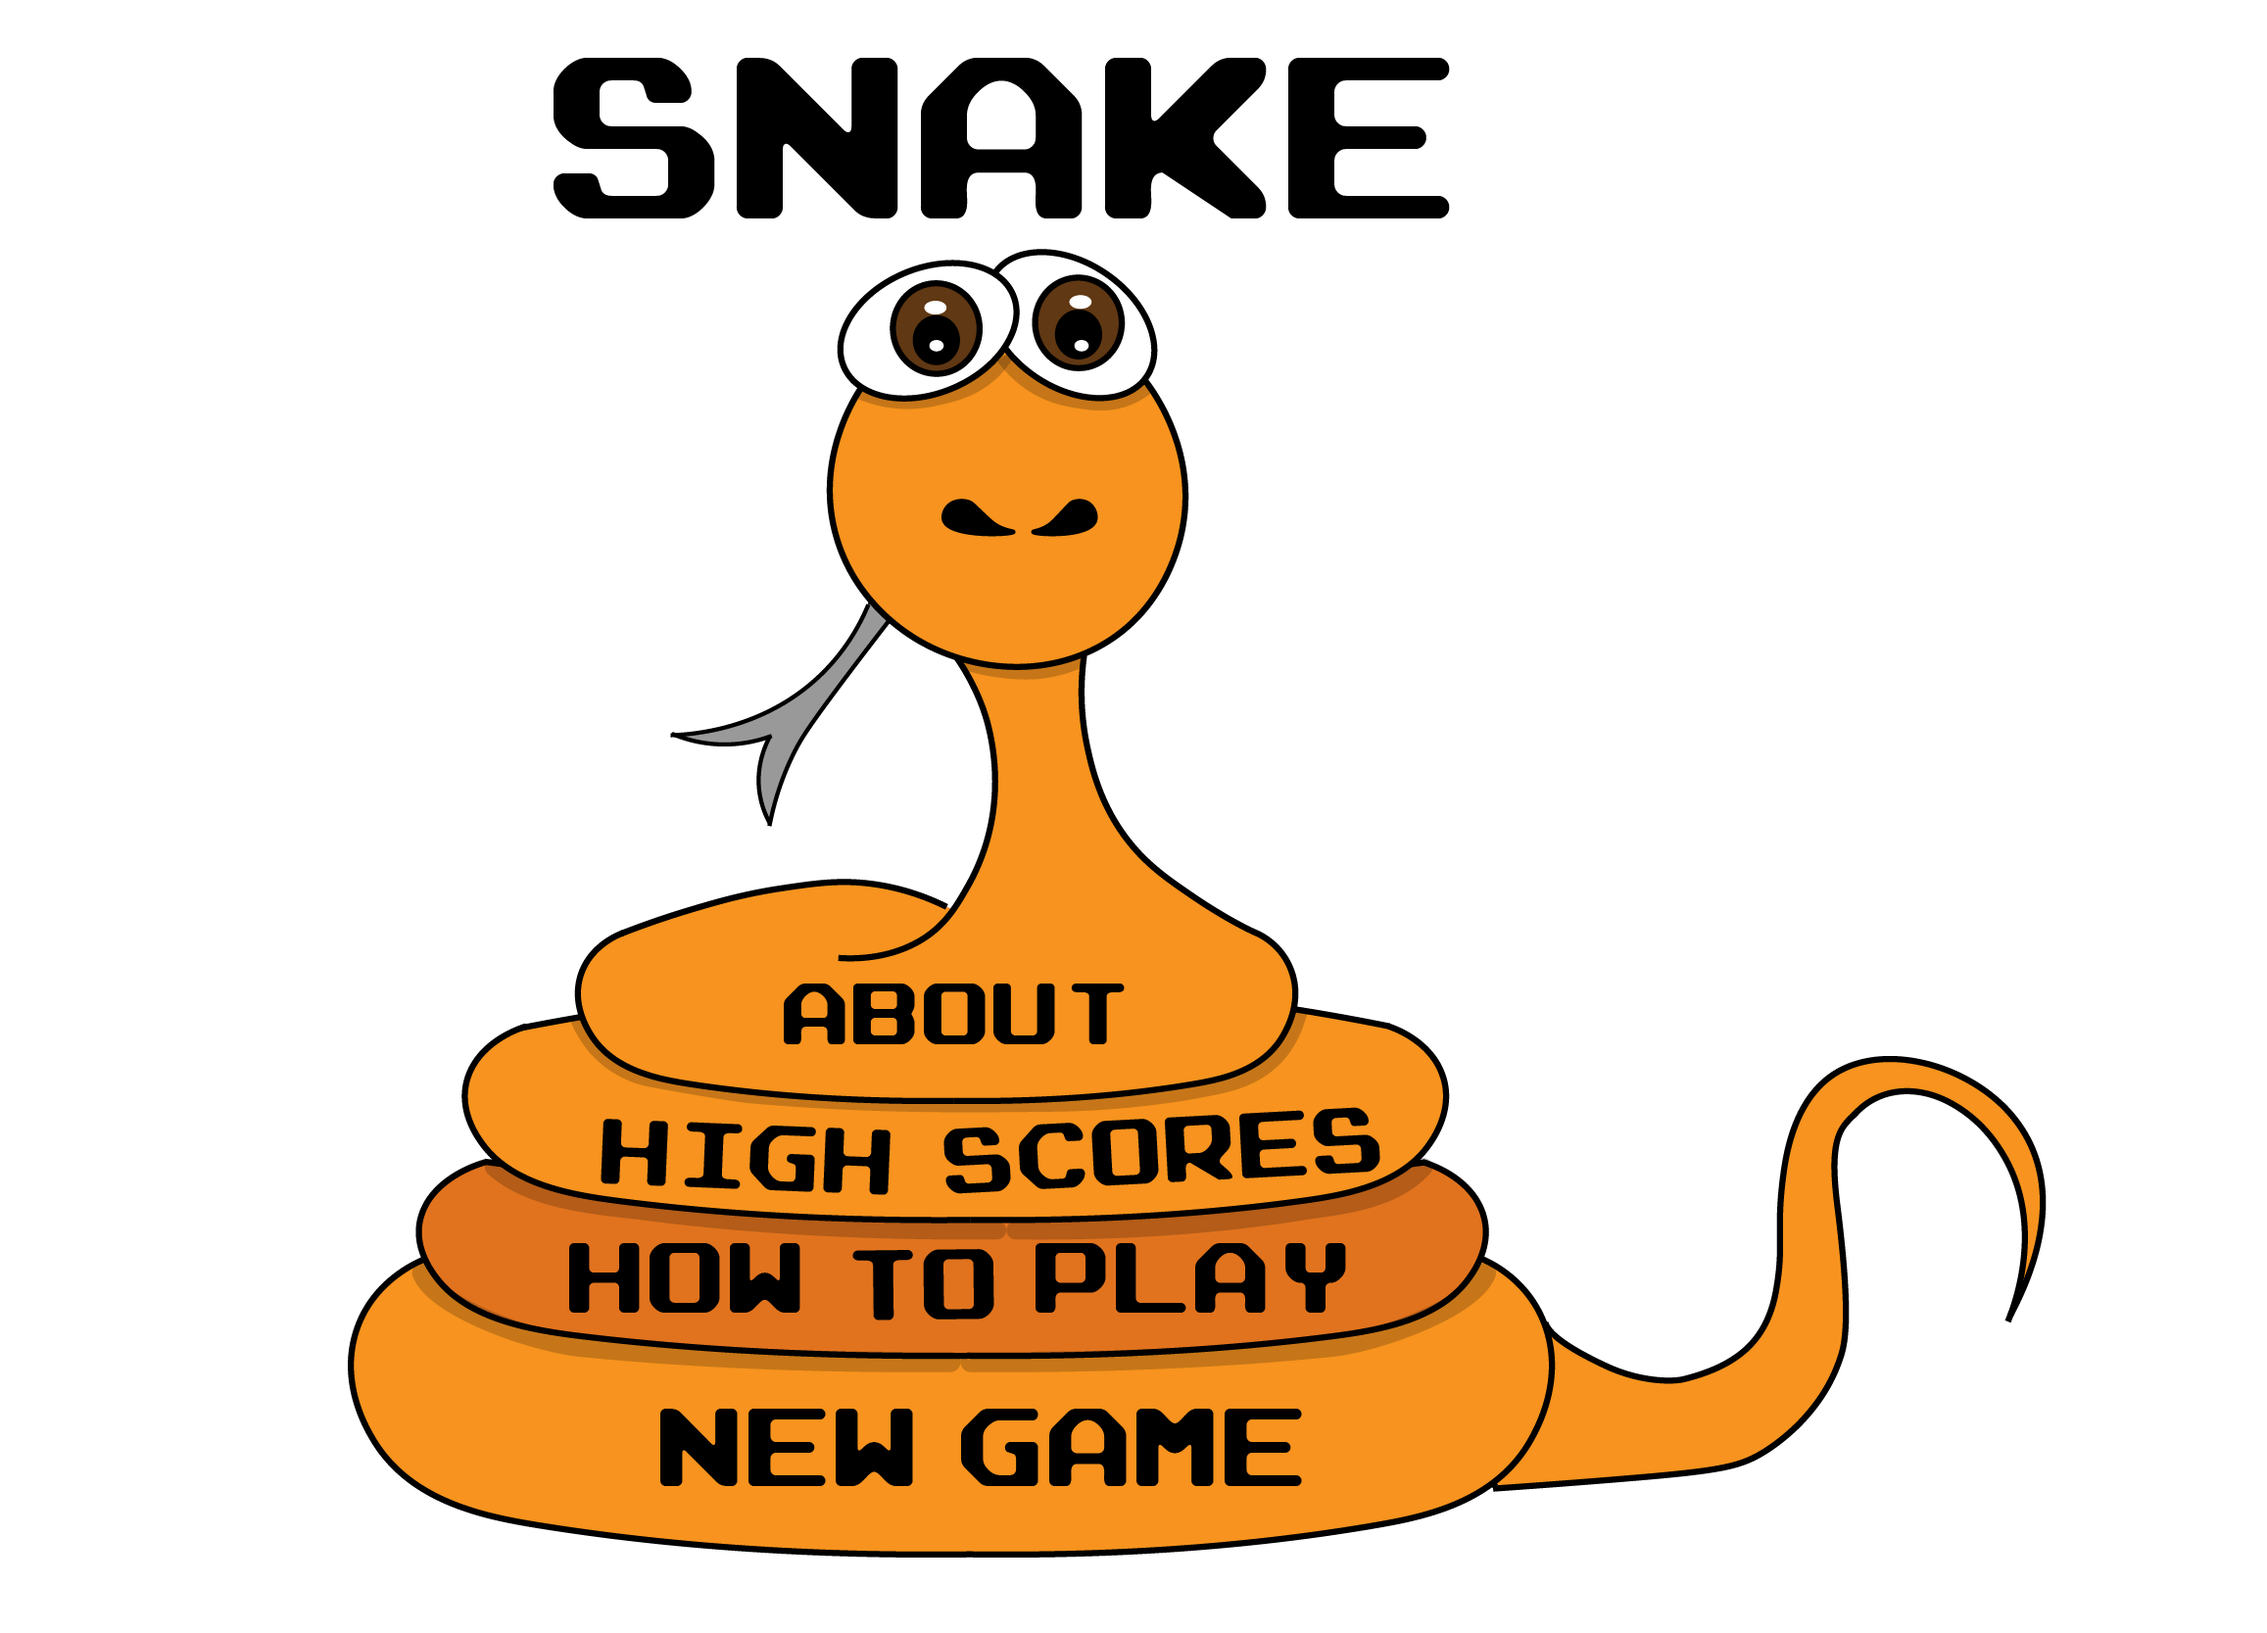
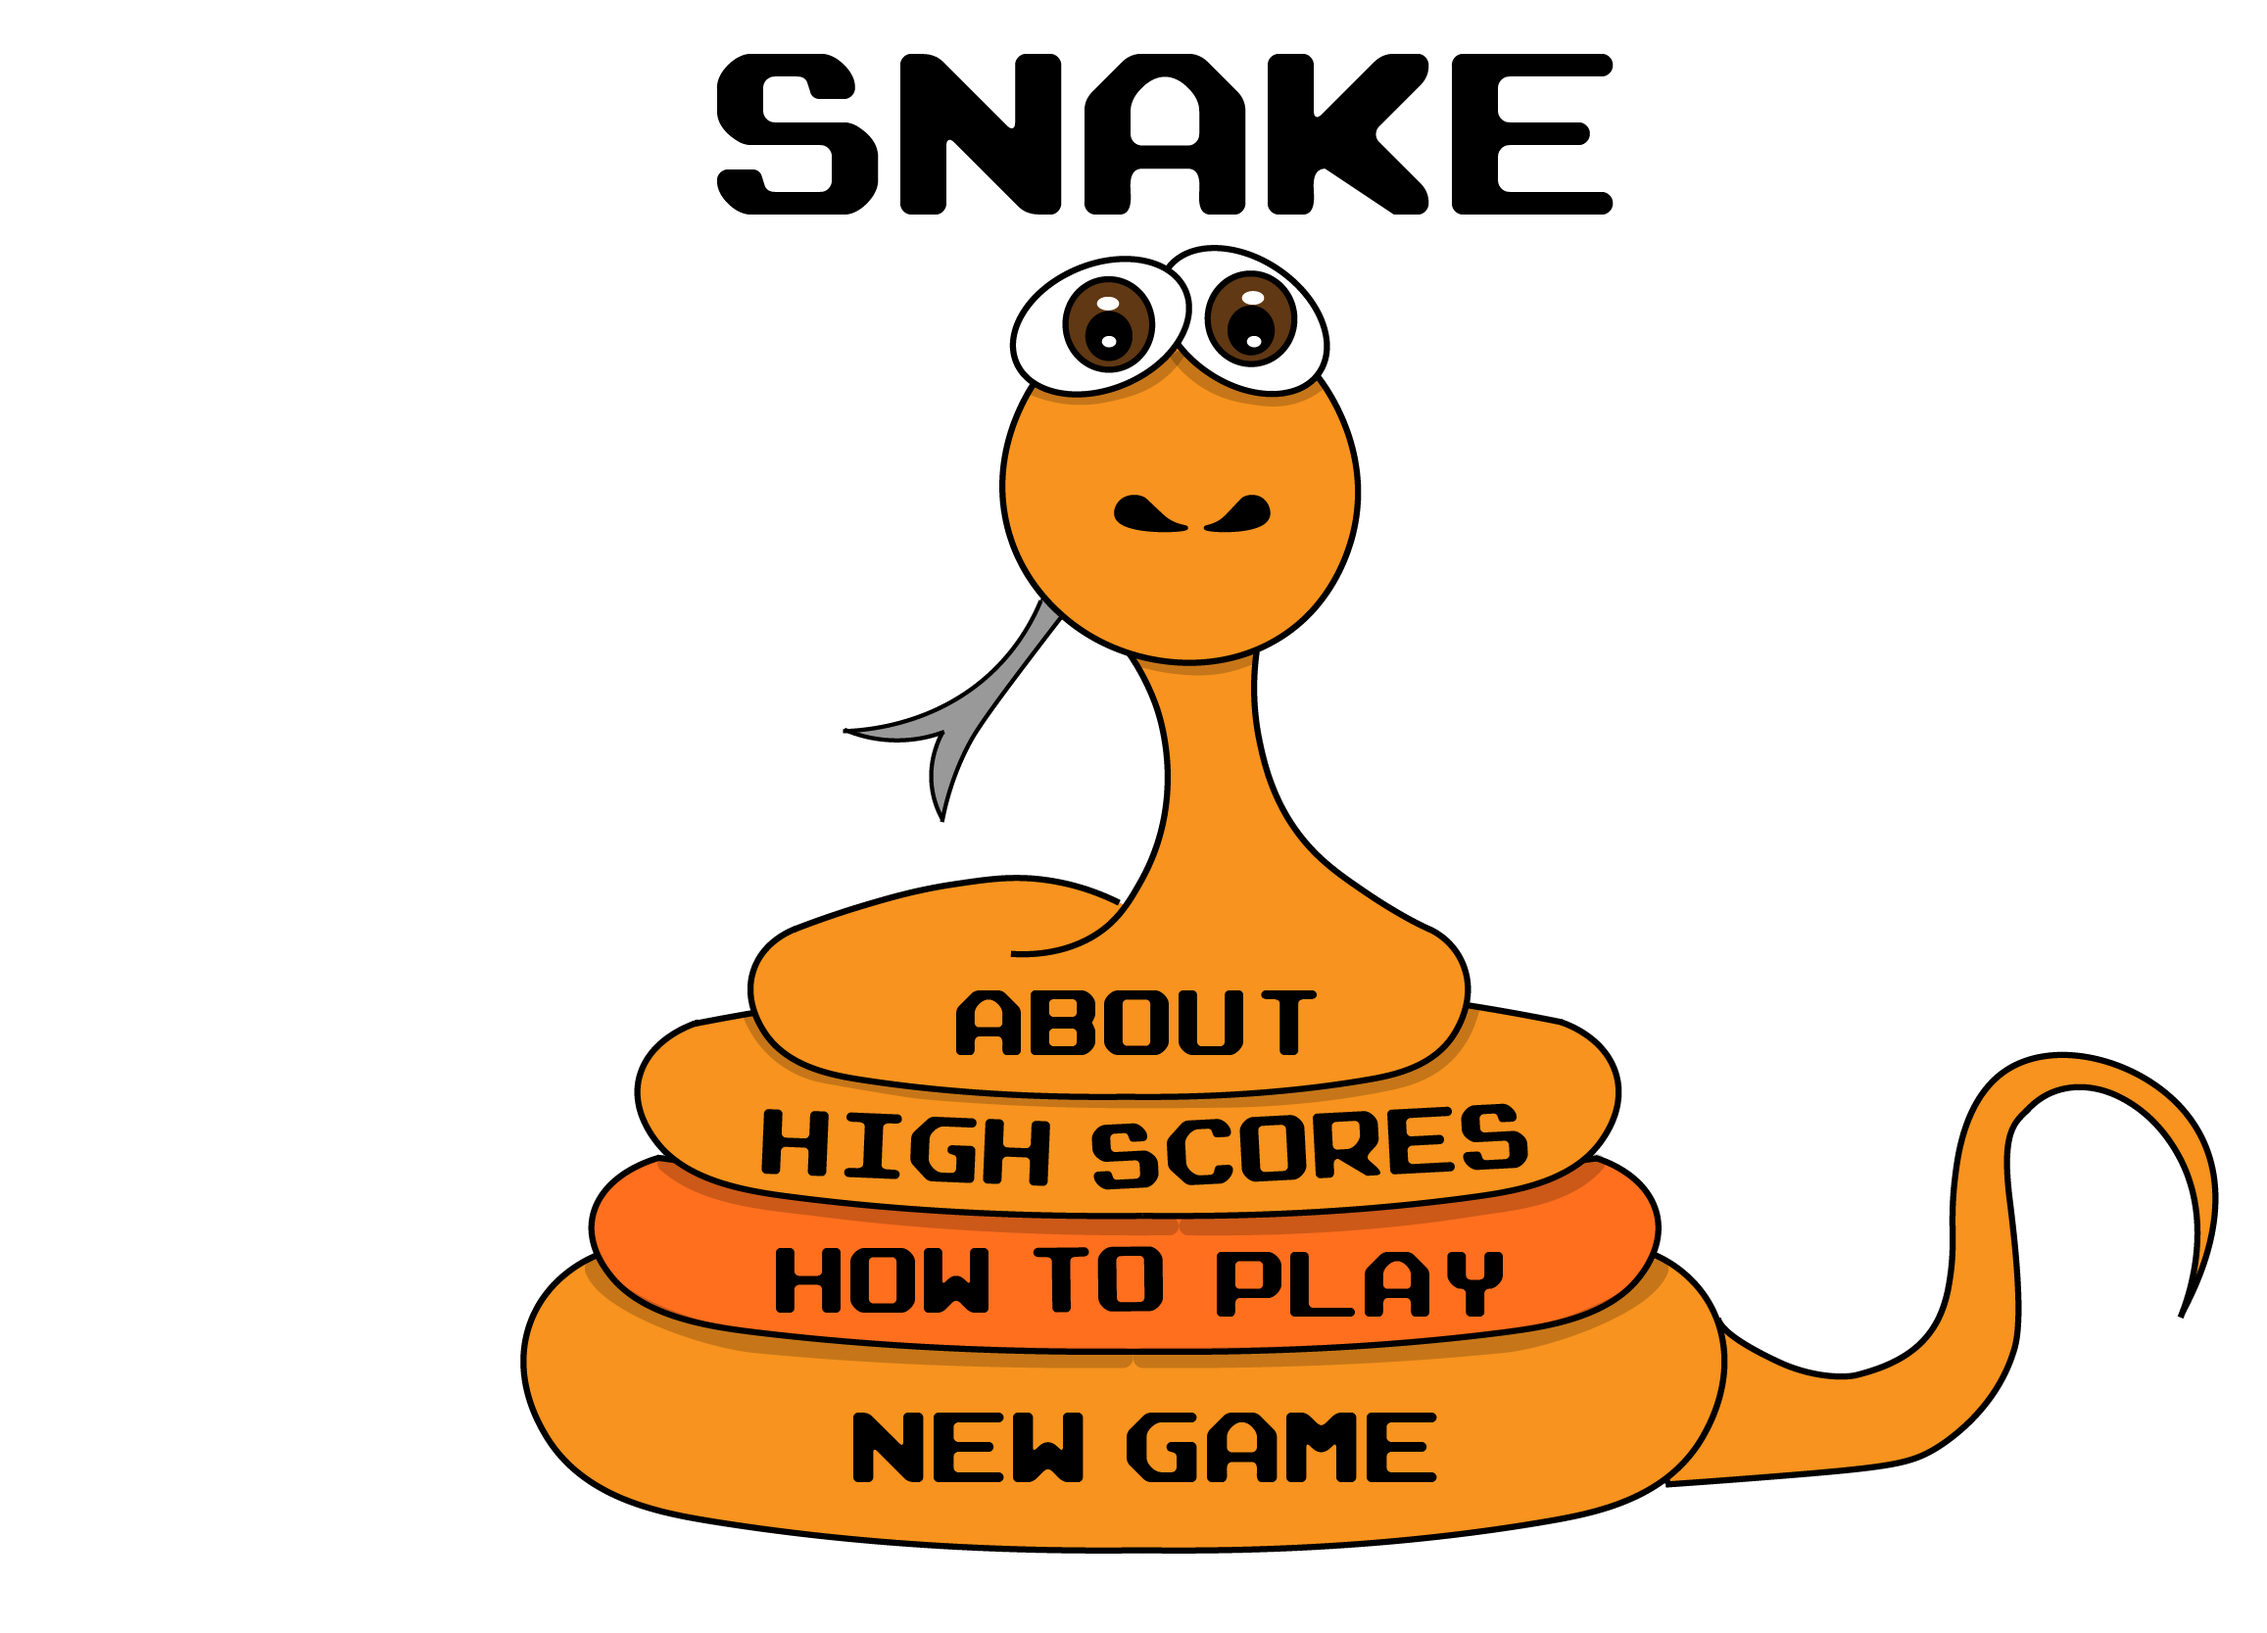
Modified Home Screen

Changed region(s): [[0.1556, 0.0312, 0.9957, 0.967]]

diff --git a/SnakeHome.html b/SnakeHome.html
@@ -1,7 +1,7 @@
 <!--
     Author: Daniel Cushing
     Version: 1.0 
-    Date: 1/29/2015
+    Date: 4/17/2015
     Info: Snake Home Page
 -->
 
@@ -11,6 +11,8 @@
         <title> Snake </title>
         <link rel="stylesheet" type="text/css" href="CSS/SnakeHomeStyle.css">
         <link href='http://fonts.googleapis.com/css?family=Titillium+Web:600' rel='stylesheet' type='text/css'>
+        <link rel="stylesheet" href="http://maxcdn.bootstrapcdn.com/bootstrap/3.3.4/css/bootstrap.min.css">
+        <script src="http://maxcdn.bootstrapcdn.com/bootstrap/3.3.4/js/bootstrap.min.js"></script>
             
 <!--    Link Jquery-->
 <!--    
@@ -38,9 +40,32 @@
         
     function newGameClicked()
     {
-        alert("Go to game view")
-        // Goto new page
-        // location.href = "page_location";
+        location.href = "SnakeGame.html";
+    }
+
+    function imgHighlight(element)
+    {
+        if(element.id == "aboutButton")
+        {
+            document.getElementById("homeScreenImage").src = "Images/SnakeHomeAbout.png"; 
+        }
+        else if(element.id == "highScoresButton")
+        {
+            document.getElementById("homeScreenImage").src = "Images/SnakeHomeScores.png"; 
+        }
+        else if(element.id == "instructionsButton")
+        {
+            document.getElementById("homeScreenImage").src = "Images/SnakeHomeHowToPlay.png"; 
+        }
+        else if(element.id == "newGameButton")
+        {
+            document.getElementById("homeScreenImage").src = "Images/SnakeHomeNewGame.png"; 
+        }
+    }
+
+    function imgReturnToDefault()
+    {
+        document.getElementById("homeScreenImage").src = "Images/SnakeHomeDefault.png";
     }
         
     </script>
@@ -55,49 +80,78 @@
 
                 <!-- Home Screen Buttons Div -->
                 <div class="homeScreenButtons"> 
-                     <button id="aboutButton" type="button" onclick="aboutClicked()"></button> 
-                     <button id="highScoresButton" type="button" onclick="highScoresClicked()"></button> 
-                     <button id="instructionsButton" type="button" onclick="instructionsClicked()"></button> 
-                     <button id="newGameButton" type="button" onclick="newGameClicked()"></button> 
+                     <button id="aboutButton" type="button" onclick="aboutClicked()" 
+                     onmouseover="imgHighlight(this);" onmouseout="imgReturnToDefault();"></button> 
+                     <button id="highScoresButton" type="button" onclick="highScoresClicked()" 
+                     onmouseover="imgHighlight(this);" onmouseout="imgReturnToDefault();"></button> 
+                     <button id="instructionsButton" type="button" onclick="instructionsClicked()" 
+                     onmouseover="imgHighlight(this);" onmouseout="imgReturnToDefault();"></button> 
+                     <button id="newGameButton" type="button" onclick="newGameClicked()" 
+                     onmouseover="imgHighlight(this);" onmouseout="imgReturnToDefault();"></button> 
                 </div>
 
-                <img src="Images/SnakeHomeDefualt.png" alt="Home Screen Image">
+                <img id="homeScreenImage" src="Images/SnakeHomeDefault.png" alt="Home Screen Image">
             </div>
         </div>
             
+        <!-- Instructions -->
         <div id="instructionsDiv" class="instructions"> 
             <h1>How To Play</h1>
             
+            </br>
             <p> 
                 Your snake is constantly in motion. Don't run into a wall or your tail or you'll die!
+                Move your snake in different directions, using your arrow keys, to avoid death.
+                Collect food to grow in size and increase your score. The larger your snake gets the harder it is to stay alive.     
             </p>
-            <br/>
-            <p> 
-                Move your snake in different directions, up, down, left, and right, using your keys, to avoid                       death.   
-            </p>
+            <p style="text-align:center;"> Good Luck and Have Fun! </p>
             
             
         </div>
         
+        <!-- High Scores -->
         <div id="highScoresDiv" class="highScores"> 
             <h1>High Scores</h1>
+
+            <table class="table table-striped">
+                <thead>
+                  <tr>
+                    <th>Name</th>
+                    <th>Score</th>
+                  </tr>
+                </thead>
+                <tbody>
+                  <tr>
+                    <td>Fry</td>
+                    <td>100</td>
+                  </tr>
+                  <tr>
+                    <td>Leela</td>
+                    <td>25</td>
+                  </tr>
+                  <tr>
+                    <td>Bender</td>
+                    <td>101</td>
+                  </tr>
+                </tbody>
+            </table>
+
         </div>
         
+        <!-- About Us -->
         <div id="aboutDiv" class="about"> 
             <h1>About</h1>
             <p> 
-                Authors <br/><br/>
+                Authors <br/>
                 Camille Rasmussen, Victor Johnson, Dustin Reitstetter, Daniel Cushing
             </p>
-            
+            </br>
             <p> 
-                Additional Info <br/><br/>
+                Additional Info <br/>
                 We are enthusiastic University of Utah students working on our final project for
-                Web Software Architecture. 
-                <br/> We chose snake to demonstrate our familiarity with 
-                html5, html5 canvas, css, javascript, and pixi. 
+                Web Software Architecture. We chose Snake to demonstrate our familiarity with 
+                html5, javascript, and css. 
             </p>
         </div>
-        
     </body>
 </html>

diff --git a/CSS/SnakeHomeStyle.css b/CSS/SnakeHomeStyle.css
@@ -19,16 +19,17 @@ body
     margin-right: auto; 
 }
 
+/*Buttons Div*/
 .homeScreenButtons
 {
     position: absolute;
     top: 55%; 
     height: 40%; 
     width: 30%; 
-/*    border: 3px solid black;  */
     margin-left: 30%; 
 }
 
+/*Buttons Style*/
 .homeScreenButtons button
 {
     display: block; 
@@ -47,58 +48,49 @@ body
     background-color: #fff; 
 }
 
-.instructions
+.instructions, .highScores, .about
 {
     overflow:auto;
     height:100vh;
-    width: 100%; 
-    background-color: #f8f8fa;
+    width: 100%;  
+    padding-left: 25px;
+    padding-right: 25px; 
+    font-family: 'Titillium Web', sans-serif;  
 }
 
-.instructions h1
+.instructions
 {
-    width: 100%; 
-    text-align: center; 
-    font-family: 'Titillium Web', sans-serif;
-    font-size: 50px; 
+    background-color: #f8f8fa;
 }
 
 .highScores
 {
-    overflow:auto;
-    height:100vh;
-    width: 100%; 
     background-color: #e5e6eb;
 }
 
-.highScores h1
+.highScores table
 {
-    width: 100%; 
-    text-align: center;
-    font-family: 'Titillium Web', sans-serif;
-    font-size: 50px; 
+    font-size: 18px; 
 }
 
 .about
-{ 
-    overflow:auto;
-    height:100vh;
-    width: 100%; 
+{  
     background-color: #c0c2ce;
-    font-family: 'Titillium Web', sans-serif;
 }
 
-.about h1
+.about h1, .highScores h1, .instructions h1
 {
     width: 100%; 
     text-align: center;
     font-size: 50px; 
+    color: #000;
 }
 
-.about p
+.about p, .highScores p, .instructions p
 {
-    padding-left: 25px; 
     font-size: 25px; 
+    color: #000;
 }
+
 
 
